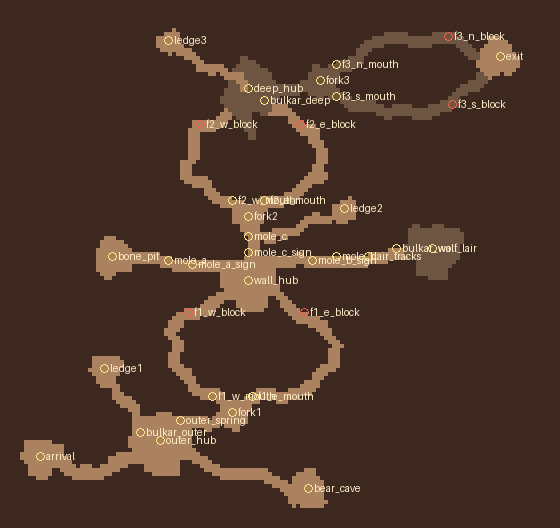
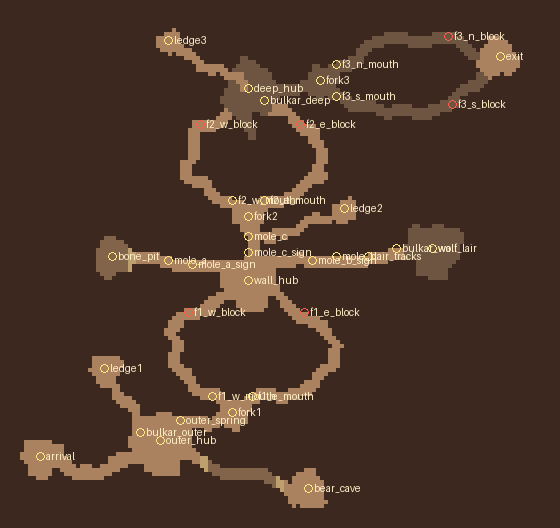
짐승의 소굴 높낮이: 뼈 무덤 구덩이 · 곰굴 마른 개울을 낮은 땅으로(길 폭 전체 비탈)
Claude-Session: https://claude.ai/code/session_01Afqs6ax66HgSx47LGmx68r

Changed region(s): [[0.3339, 0.8485, 0.5161, 0.9394], [0.1518, 0.4242, 0.2429, 0.5455]]

diff --git a/tools/f2b_layout.py b/tools/f2b_layout.py
@@ -8,7 +8,9 @@
 
   python3 tools/f2b_layout.py            # data/floors/f2_beast_den.json 생성 + 미리보기 docs/plans/f2_beast_den_layout.png
 
-글자: ' ' = 메사(솟은 외곽) · '.' 굳은 흙 · ':' 진흙(깊은 굴). (낮은 협곡 · 비탈 · 둔덕은 2단계 — 1단계에서 높낮이 경계가 돌무더기로 막혀 뺐다)
+글자: ' ' = 메사(솟은 외곽) · '.' 굳은 흙 · ':' 진흙(깊은 굴) · 'l' 낮은 흙 · '/' 비탈.
+높낮이(레벨 디자인 11차): 곁길 둘만 낮춘다 — 뼈 무덤 구덩이(고리 2 서쪽 끝) · 곰굴로 가는 마른 개울(고리 1 남쪽 곁길).
+낮은 땅과 협곡이 만나는 곳은 길 폭 전체를 비탈로(gen.levels가 경계를 돌무더기로 바꿔도 비탈로는 오르내린다 — 본 고리는 건드리지 않는다).
 """
 import json
 import math
@@ -128,6 +130,24 @@ path([(62, 22), (56, 18), (44, 12), (42, 10)], 2, ".")
 disk(42, 10, 3, ".")
 mark("ledge3", 42, 10)
 path([(62, 22), (62, 34)], 2, ":")            # 깊은 굴 남쪽 주머니 — 탐험가 시체
+
+# ── 높낮이(레벨 디자인 11차): 곁길 둘을 낮춘다 ──
+def lower(inside, slope):
+    """inside(x, y)인 바닥 칸을 낮은 흙으로, slope(x, y)인 바닥 칸을 비탈로."""
+    for y in range(H):
+        for x in range(W):
+            if grid[y][x] != ".":
+                continue
+            if slope(x, y):
+                grid[y][x] = "/"
+            elif inside(x, y):
+                grid[y][x] = "l"
+
+
+# 뼈 무덤 구덩이: 터 안쪽은 낮고, 동쪽(협곡이 들어오는 쪽) 두 줄은 비탈
+lower(lambda x, y: math.hypot(x - 28, y - 64) <= 6.5 and x <= 31, lambda x, y: 32 <= x <= 33 and abs(y - 64) <= 6)
+# 곰굴로 가는 마른 개울: 바깥 협곡 터와 곰굴 사이가 낮고, 양 끝 두 줄은 비탈(곰굴 터는 다시 높다)
+lower(lambda x, y: 52 <= x <= 68 and 112 <= y <= 126, lambda x, y: (x in (50, 51) or x in (69, 70)) and 112 <= y <= 126)
 
 # 바위 · 죽은 나무 · 돌무더기(협곡 안 — 길을 굽게 한다, 지나갈 틈은 남긴다)
 for (x, y) in [(36, 107), (44, 113), (60, 66), (66, 73), (100, 63), (58, 20), (66, 24), (30, 66), (104, 60)]:
